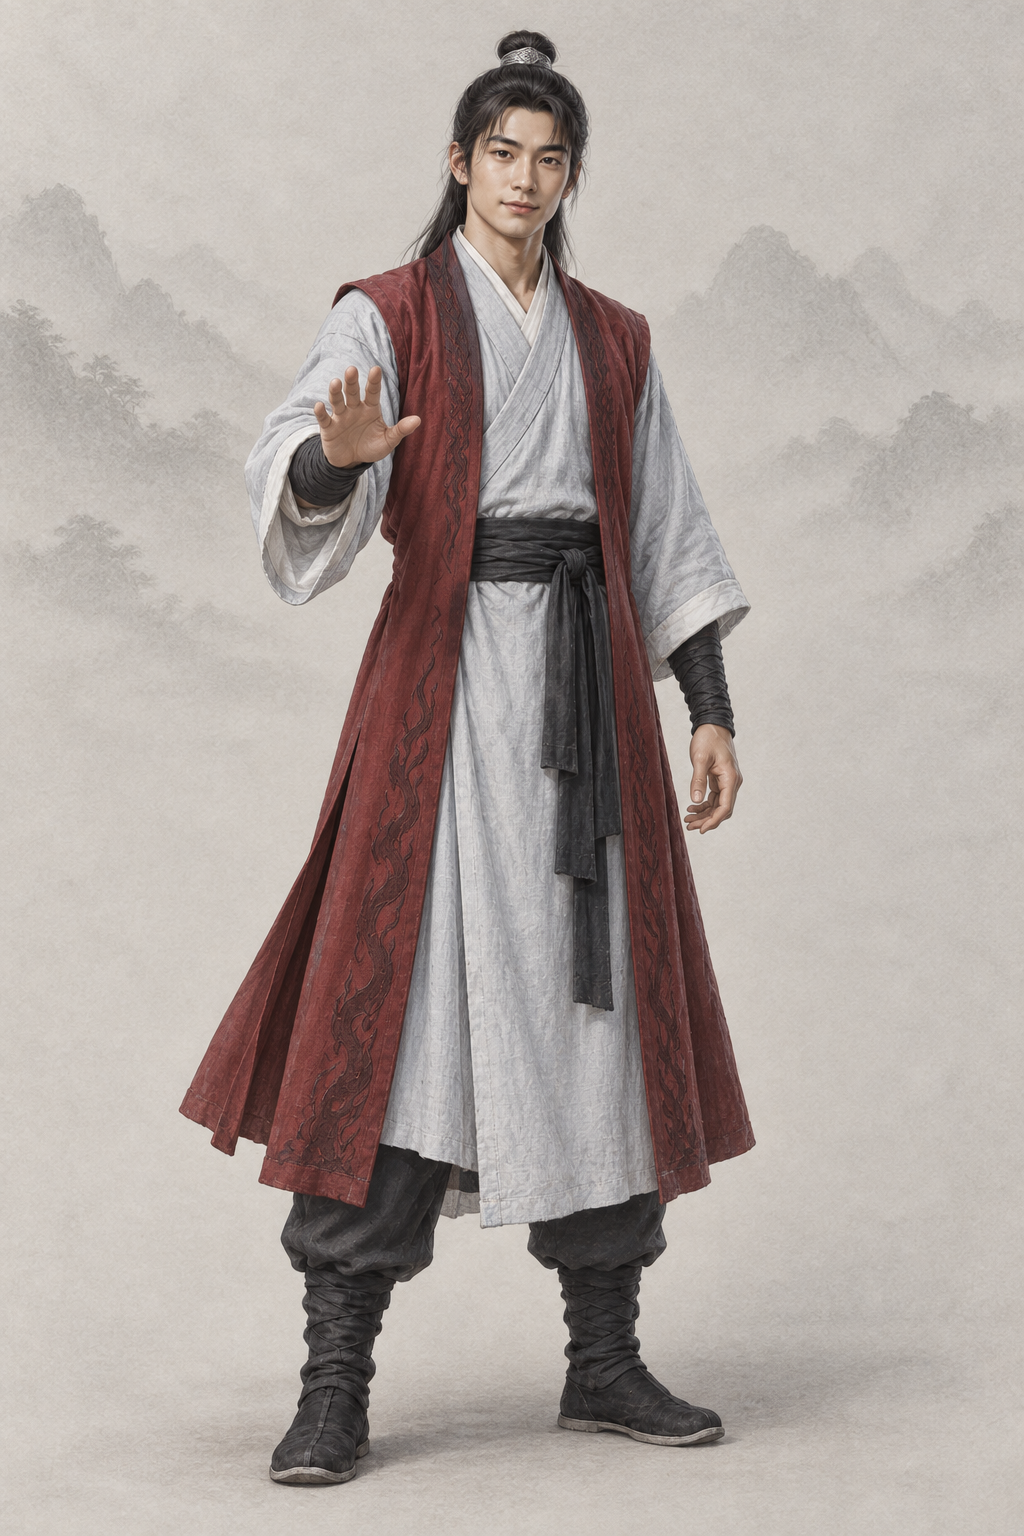
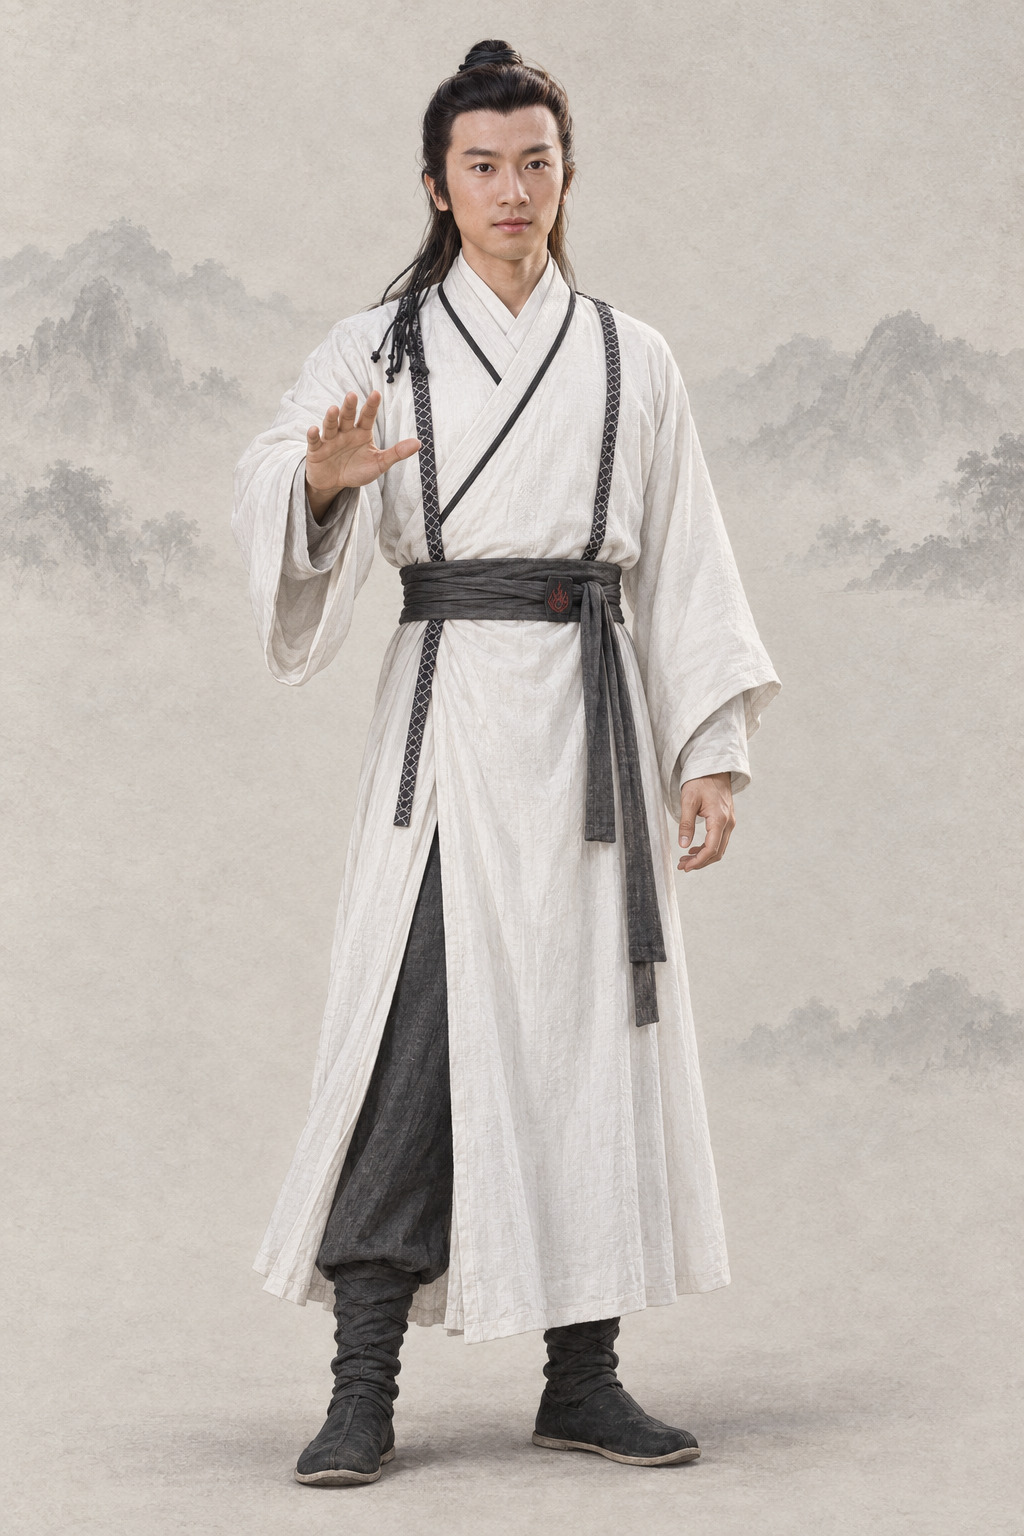
assets(character): por_npc_zhangwuji__ch04_youth_jiaozhu_base 张无忌（codex，AR-32 经典版）
参考 2003 年苏有朋、贾静雯版《倚天屠龙记》（作者 AR-32 指定） 剧照与项目基线重出；剧照只作出图参考，不入库。

diff --git a/assets/default/prompts/characters/ch04-yitian/npc_zhangwuji.md b/assets/default/prompts/characters/ch04-yitian/npc_zhangwuji.md
@@ -18,12 +18,42 @@ references:
 status: redo
 realism_revision: user_identity_pose_20261001
 codex_prompt_rev: 2026-10-02
-redo_reason: "AR-31：作者点名的重要人物，按经典造型以文字改写后重出（10-02）"
+redo_reason: "AR-32：主要角色参考经典影视版剧照（2003 年版）加基线重出（10-02，7 号出图员）"
+classic_ref:
+  version: 2003 年苏有朋、贾静雯版《倚天屠龙记》（作者 AR-32 指定）
+  actor: 苏有朋
+  stills:
+  - .agents/coord/imagegen-reference/identity-20261002/yitian/zhangwuji_2003_suyoupeng_tvsou.jpg
+reference_upload:
+- .agents/coord/imagegen-reference/identity-20261002/yitian/zhangwuji_2003_suyoupeng_tvsou.jpg
+- assets/default/baseline/character/male/ref_npc_linghuchong__ch05_base01.png
+- assets/default/baseline/character/male/ref_npc_xiaofeng__ch01_base01.png
 ---
 
 # 张无忌 · 人物写实修正
 
 ## Gemini 提示词
+
+> 2026-10-02 AR-32 改写（7 号出图员，codex exec · image_gen 出图）：主要角色参考经典影视版剧照重出——2003 年苏有朋、贾静雯版《倚天屠龙记》（作者 AR-32 指定）。按顺序上传剧照 1 张（zhangwuji_2003_suyoupeng_tvsou.jpg，在主检出 .agents/coord/imagegen-reference/identity-20261002/，不入库）取发型、服饰、配色、气质与面部特征，再上传两张同性别缩小版基线（放在最后）取画风；要求重新绘制成项目画风，不复制照片。提示词里不写演员名。上一版保留在后文作历史。
+
+```text
+生成一张 2:3 竖幅全身人物立绘：单人、单一视角、完整全身——头顶、双手、双脚和手中器物的两端都在画面内，四周留出自然空白；人物站姿自然，身体基本朝向正面，头部端正（不歪头、不仰不俯），镜头平视。
+【画风】写实手绘古风人物插画，与本项目写实武侠角色立绘同一画风，像功力深厚的画师用细腻笔触画出的真实人物。手绘插画质感，不是 CG 渲染：不要过度光滑的皮肤、完美对称的五官、塑料高光、过度锐利的发丝；保留自然的笔触和细微不完美。皮肤有真实质感——细小毛孔、细纹、晒痕和自然的左右不对称，不磨皮、不油亮；头发是一缕缕自然的发丝和少量碎发；布料看得出经纬纹理、厚薄和自然垂坠的褶皱，带穿用过的轻微旧化，但完整不破烂；整体设色低饱和、沉稳；柔和的自然光从左上方照来，明暗过渡自然，不打舞台光、轮廓光或美颜柔光。不是照片，不是三维渲染，不是动漫或游戏 CG，也不是油画（没有厚涂笔触和画布纹理）。
+【背景】不透明的暖浅灰色纸底，只在远处有极淡的水墨远山和薄雾，大面积留白；人物与背景明暗分明、轮廓边缘干净完整（后续要自动抠图），水墨和纸纹只在背景里，不侵入人物和衣服；脚下只有很淡的一点接触阴影。
+【剧照参考】随提示词上传的第 1 张参考图是这个角色经典影视造型的剧照：借鉴其发型、服饰、配色、标志道具、气质和面部特征（脸型、眉眼、鼻唇的比例与神态），让人一眼认出是这个角色；但必须重新绘制成本项目画风的手绘写实插画，不要照片质感，不要照搬剧照的构图、取景、光影、背景和姿势，也不要做成照片修图或磨皮美颜；剧照里的影楼柔光、浓妆、字幕和水印都不要。最后两张是本项目画风基线：画风、用色、光线、质感和暖浅灰纸底加淡水墨背景以它们为准。
+【人物】张无忌，《倚天屠龙记》男主角，光明顶上被推举为明教教主之后、灵蛇岛之前；身负九阳神功与乾坤大挪移，宅心仁厚、以止戈救人为重。
+【年龄与体态】约二十一二岁的成年青年，身材匀称结实、肩背舒展，不是健美壮汉（约 7.5 头身）。
+【经典造型】照剧照里这一版深入人心的少年教主来画：温和俊朗、眉目清正，神情里有宽厚和担当；素白长袍配深灰编织肩带，头顶一个小发髻，干净利落。
+【面容】照剧照的脸型和五官比例来画：偏长的鹅蛋脸，下颌线条柔和、下巴圆润；两道浓黑平直的剑眉；一双温和明亮的眼睛，眼神清澈真诚；鼻梁挺直；嘴唇厚薄适中、唇线清楚，嘴角平和、略带笑意；年轻无须，肤色健康温暖。俊朗温厚、相貌堂堂的青年。
+【发式】黑发向后梳拢，在头顶挽成一个小发髻，用黑色细绳扎住，绳尾垂下几缕带小黑结的细绳到耳后；额前发际干净、两鬓自然，其余长发披在背后。
+【服饰】素白交领右衽长袍（棉麻质地），领口镶一道窄黑边；两条带菱形编织纹的深灰窄布带从双肩竖直垂到腰间；腰系深灰宽布带，腰带正面缝一枚很小的暗红火焰纹布饰（明教标记，是缝在布上的纹样，不发光）；深色长裤、黑布靴；衣料完整干净。
+【道具】空手：不拿也不挂任何刀剑、圣火令或令牌。
+【姿态与神情】正面站立，本人右手轻抬到胸前、掌心朝前偏下做温和的劝止手势（五指自然放松），左手自然下垂；神情温和而坚定，像正在劝双方罢手。
+【不要】画面里不要任何文字、题款、印章、签名、水印、边框、分格或多视图；不要第二个人；不要幼态（童颜、娃娃脸、婴儿肥、儿童或少年身材、大头小身）；不要塑料感皮肤、磨皮美颜、网红脸（尖下巴大眼高鼻的模板脸）、过度对称、浓妆、偶像式打光、蜡像感；不要照片质感、照片修图感、三维渲染或动漫大眼；不要直接复制剧照的画面；不要歪头、斜镜头；不要多指、缺指（设定的伤残除外）、手与器物粘连或悬空；汉式交领必须右衽（穿着者的左襟压在右襟上），不要左衽（设定为少数民族服制的除外），不要水平镜像；不要现代物品、发光特效、法阵或能量光。不要童年病弱的寒毒脸、雪谷乞儿破衣；不要中年胡须；不要皇冠龙袍、元廷官帽、铠甲；不要倚天剑、屠龙刀、圣火令；不要掌心火球、火焰特效或发功姿势。
+【画风基线】随提示词上传的参考图里，最后两张是本项目的立绘画风基线：只参考它们的画风、用色、光线、质感和暖浅灰纸底加淡水墨的背景处理，整体画风必须与它们一致——精细写实的数字手绘插画，不是油画，不要厚涂笔触和画布纹理。基线图只取画风、光线、质感和背景处理，不取长相：不要照搬基线图里人物的长相、年龄、发型、服饰和姿势。
+```
+
+## 上一版 Gemini 提示词（AR-32 改写前，历史，不再用于出图）
 
 > 2026-10-02 AR-31 改写（1 号出图员，codex exec · image_gen 出图）：重要人物借鉴经典影视造型，只写成文字——不写演员名、不上传剧照、原创面孔；主角和美人画得好看，去 AI 味，禁止幼态。出图时上传两张同性别基线立绘作画风参考（放在最后）。审核组原稿保留在下一节作历史。
 
